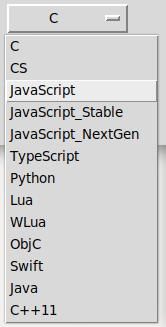
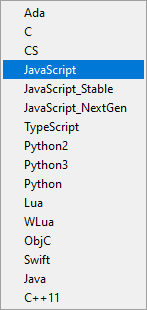
Update usage and images to include Ada too

Changed region(s): [[0.0, 0.0, 1.0, 1.0]]

diff --git a/en/getting_started/generate_libraries.md b/en/getting_started/generate_libraries.md
@@ -76,10 +76,8 @@ python3 -m pymavlink.tools.mavgen --lang=C --wire-protocol=2.0 --output=generate
 The full syntax and options can be output by running `mavgen.py -h` flag, which is reproduced below:
 
 ```
-usage: mavgen.py [-h] [-o OUTPUT]
-                 [--lang {C,CS,JavaScript,JavaScript_Stable,JavaScript_NextGen,TypeScript,Python,Lua,WLua,ObjC,Swift,Java,C++11}]
-                 [--wire-protocol {0.9,1.0,2.0}] [--no-validate]
-                 [--error-limit ERROR_LIMIT] [--strict-units]
+usage: mavgen.py [-h] [-o OUTPUT] [--lang {Ada,C,CS,JavaScript,JavaScript_Stable,JavaScript_NextGen,TypeScript,Python2,Python3,Python,Lua,WLua,ObjC,Swift,Java,C++11}]
+                 [--wire-protocol {0.9,1.0,2.0}] [--no-validate] [--error-limit ERROR_LIMIT] [--strict-units]
                  XML [XML ...]
 
 This tool generate implementations from MAVLink message definitions
@@ -87,16 +85,15 @@ This tool generate implementations from MAVLink message definitions
 positional arguments:
   XML                   MAVLink definitions
 
-optional arguments:
+options:
   -h, --help            show this help message and exit
   -o OUTPUT, --output OUTPUT
                         output directory.
-  --lang {C,CS,JavaScript,JavaScript_Stable,JavaScript_NextGen,TypeScript,Python,Lua,WLua,ObjC,Swift,Java,C++11}
+  --lang {Ada,C,CS,JavaScript,JavaScript_Stable,JavaScript_NextGen,TypeScript,Python2,Python3,Python,Lua,WLua,ObjC,Swift,Java,C++11}
                         language of generated code [default: Python]
   --wire-protocol {0.9,1.0,2.0}
                         MAVLink protocol version. [default: 1.0]
-  --no-validate         Do not perform XML validation. Can speed up code
-                        generation if XML files are known to be correct.
+  --no-validate         Do not perform XML validation. Can speed up code generation if XML files are known to be correct.
   --error-limit ERROR_LIMIT
                         maximum number of validation errors to display
   --strict-units        Perform validation of units attributes.
